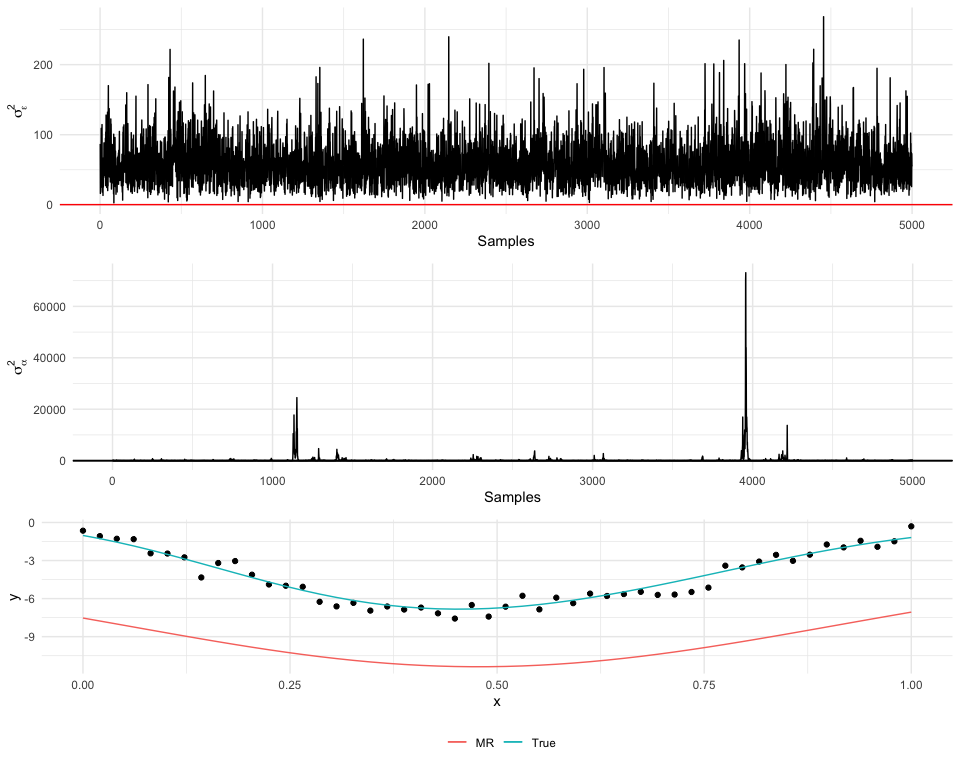
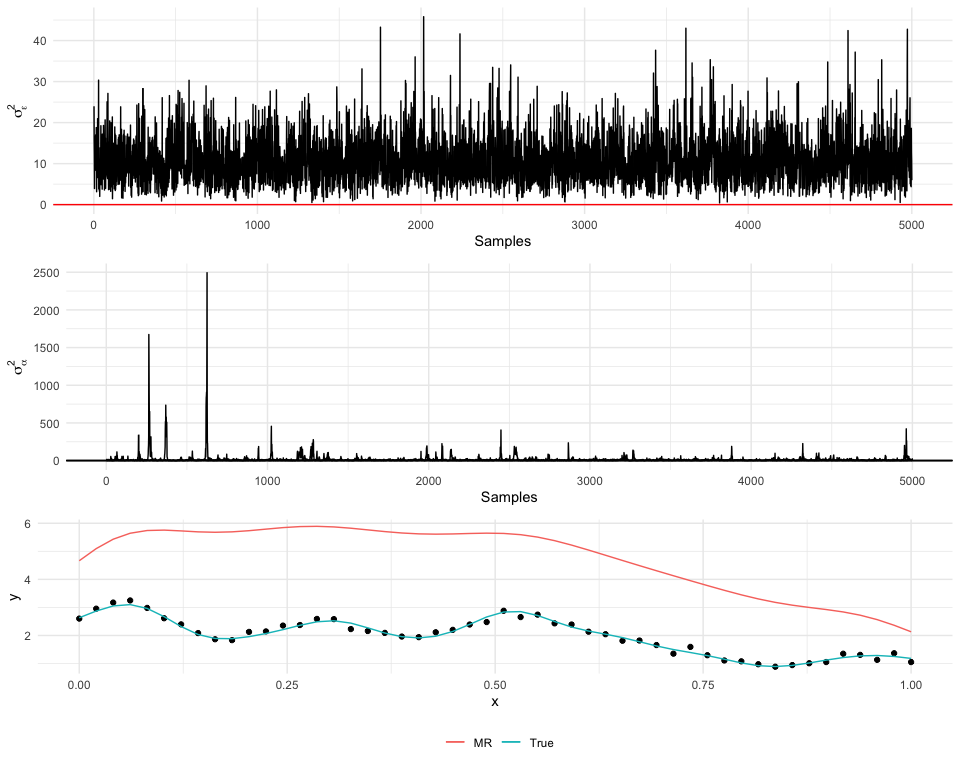
change basis function

diff --git a/README.md b/README.md
@@ -24,7 +24,7 @@
     ## x dplyr::lag()     masks stats::lag()
 
     ##   [1] "mcmc_mr <- function(y, x, "                                                           
-    ##   [2] "                    knots, stddev, "                                                  
+    ##   [2] "                    knots, radius = rad, form = \"gaussian\", "                       
     ##   [3] "                    n_mcmc = 5000, burnin = 2500, n_message = 500) {"                 
     ##   [4] "    "                                                                                 
     ##   [5] "    N <- length(y)"                                                                   
@@ -50,9 +50,9 @@
     ##  [25] "    alpha2 <- rnorm(m2, 0, 1)"                                                        
     ##  [26] "    alpha3 <- rnorm(m3, 0, 1)"                                                        
     ##  [27] "    "                                                                                 
-    ##  [28] "    Z1 <- make_kernel(x, knots$knots1, stddev[1])"                                    
-    ##  [29] "    Z2 <- make_kernel(x, knots$knots2, stddev[2])"                                    
-    ##  [30] "    Z3 <- make_kernel(x, knots$knots3, stddev[3])"                                    
+    ##  [28] "    Z1 <- make_basis(x, knots$knots1, radius[1], form = form)"                        
+    ##  [29] "    Z2 <- make_basis(x, knots$knots2, radius[2], form = form)"                        
+    ##  [30] "    Z3 <- make_basis(x, knots$knots3, radius[3], form = form)"                        
     ##  [31] "    "                                                                                 
     ##  [32] "    ## precalculate values"                                                           
     ##  [33] "    tZZ1 <- t(Z1) %*% Z1"                                                             
